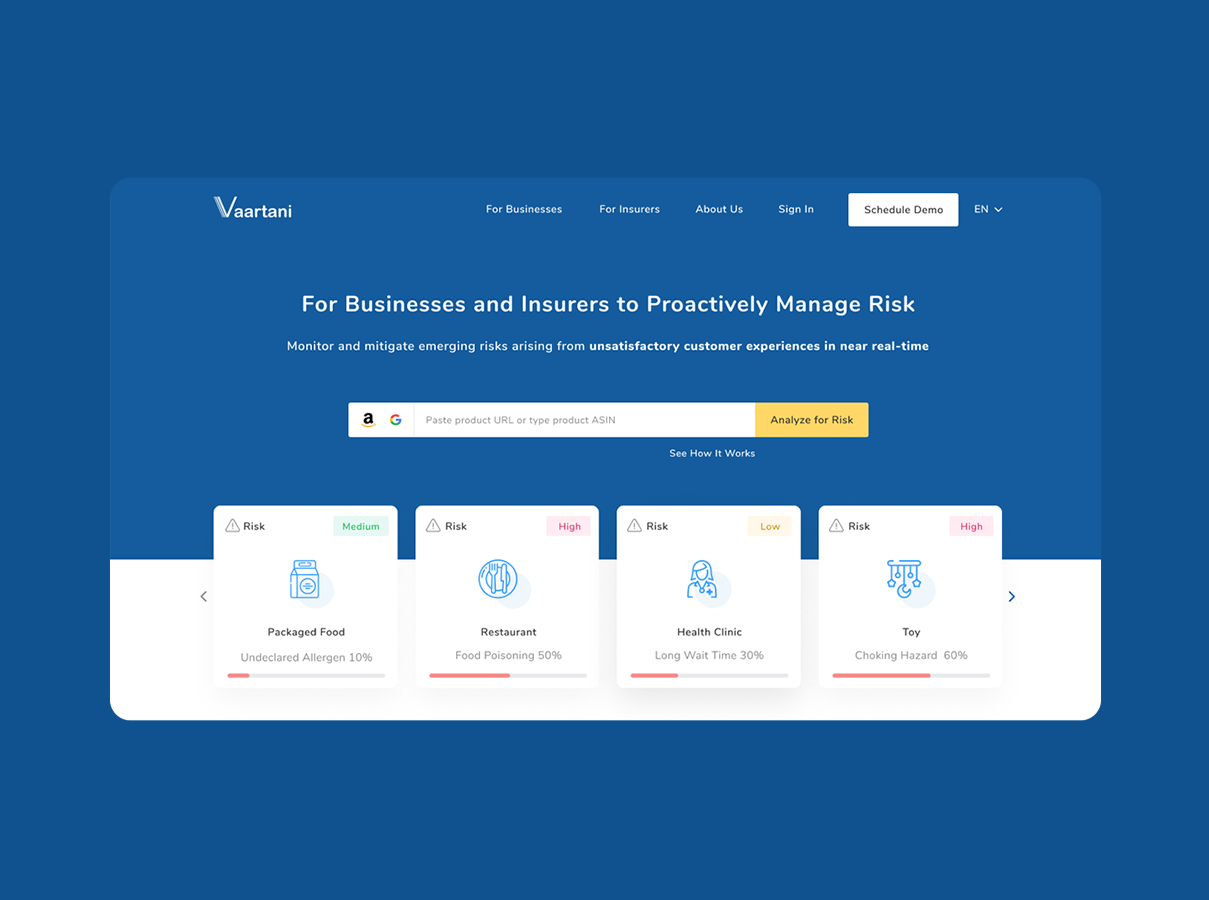
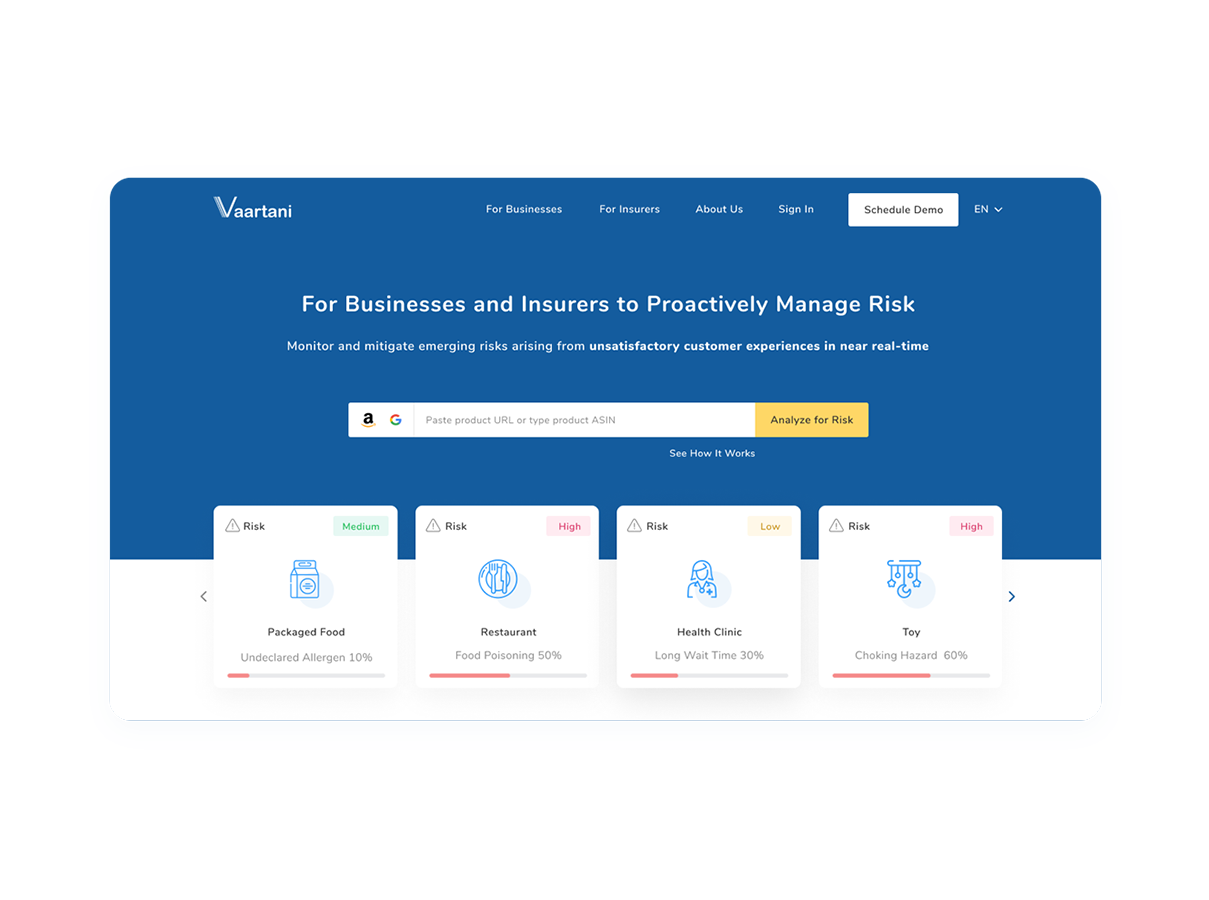
..

diff --git a/css/_custom.scss b/css/_custom.scss
@@ -19,7 +19,7 @@ $gray-off: #979797;
   background-color: #111111;
 }
 .bg-vaartani{
-  background-color: #10528f;
+  background-color: #ebf5ff;
 }
 .color {
   color: $black !important;

diff --git a/css/bootstrap.css b/css/bootstrap.css
@@ -10844,7 +10844,7 @@ a.text-dark:hover, a.text-dark:focus {
 }
 
 .bg-vaartani {
-  background-color: #10528f;
+  background-color: #ebf5ff;
 }
 
 .color {
